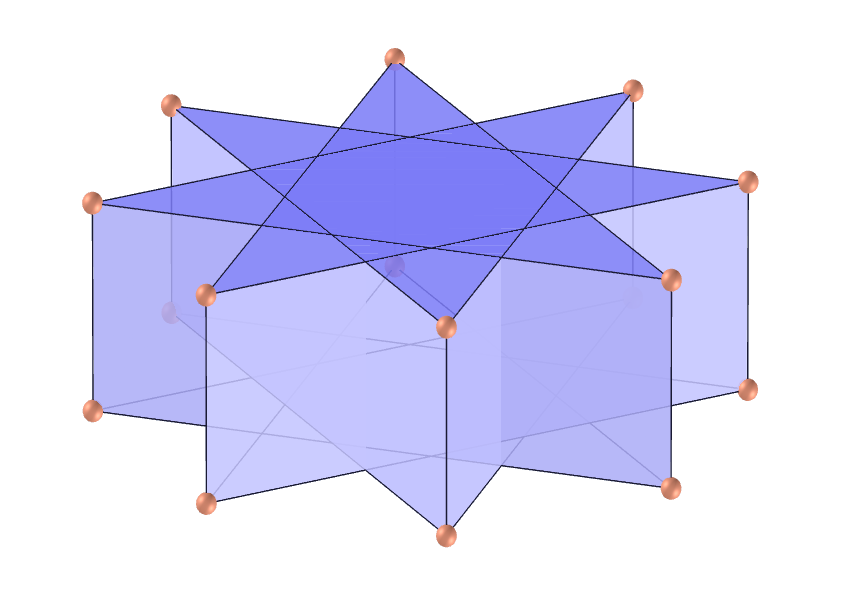
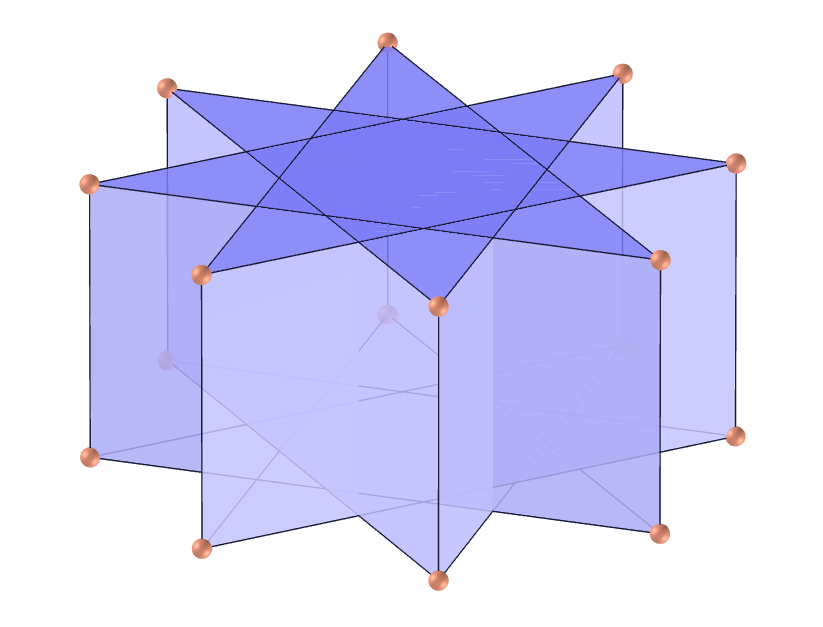
updt

diff --git a/vr/pentagrammic_antiprism.htm b/vr/pentagrammic_antiprism.htm
@@ -17,7 +17,7 @@
 			<a-asset-item id="material" src="outros/solidos.mtl"></a-asset-item>
 		</a-assets>
 				
-		<a-entity position="0 0 0" rotation="90 -5 0" scale="8 8 6">
+		<a-entity position="0 0 0" rotation="90 0 0" scale="8 8 6">
 			<a-obj-model src="outros/PentagrammicAntiprism.obj" mtl="#material" scale="0.997 0.997 0.997"></a-obj-model>
 			<a-obj-model src="outros/PentagrammicAntiprismL.obj" mtl="#material"></a-obj-model>
 			<a-sphere mixin='esfera mtl9' position='0.30902 -0.42533 0.39308'></a-sphere>
